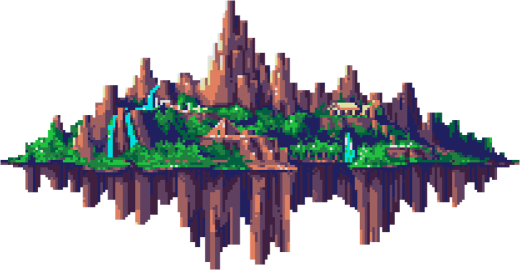
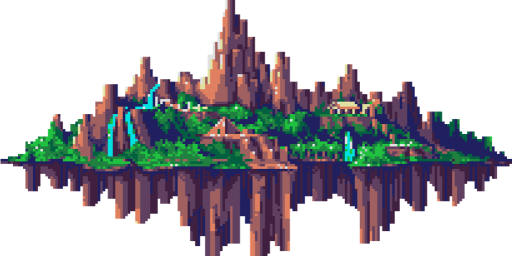
Optimize intro screen.

diff --git a/intro.js b/intro.js
@@ -14,12 +14,12 @@ var exiting = false;
 canvas.addEventListener("click", function() { exiting = true; }, false);
 
 function update() {
-	x -= 0.5;
+	x -= 0.2;
 	if (x < -waterBackground.width) {
 		x = 0;
 	}
 	
-	cx--;
+	cx -= 0.5;
 	if (cx < -cloudsBackground.width) {
 		cx = 0;
 	}
@@ -38,14 +38,15 @@ function drawImageCentered(img, xoff = 0, yoff = 0) {
 	ctx.drawImage(img, canvas.width / 2 - img.width / 2 + xoff, canvas.height / 2 - img.height / 2 + yoff);
 }
 
-var alpha = 1.0, timer = 100;
+// first alpha is for the black overlay, second alpha is for the sega logo, and the timer controls how long after the sega logo appears that the black overlay starts to fade
+var alpha = 1.0, alpha2 = 1.0, timer = 100;
 
 function draw() {
 	update();
-
+	
 	clear();
-	ctx.drawImage(cloudsBackground, cx, canvas.height - cloudsBackground.height - 20);
-	ctx.drawImage(cloudsBackground, cx + cloudsBackground.width, canvas.height - cloudsBackground.height - 20);
+	ctx.drawImage(cloudsBackground, cx, canvas.height - cloudsBackground.height - 30);
+	ctx.drawImage(cloudsBackground, cx + cloudsBackground.width, canvas.height - cloudsBackground.height - 30);
 	//ctx.drawImage(cloudsBackground, cx + cloudsBackground.width * 2, canvas.height - cloudsBackground.height - 20);
 
 	ctx.drawImage(waterBackground, x, canvas.height - waterBackground.height);
@@ -59,12 +60,19 @@ function draw() {
 		ctx.fillStyle = "rgba(0, 0, 0, " + alpha + ")";
 		ctx.fillRect( 0, 0, canvas.width, canvas.height );
 		ctx.closePath();
-		drawImageCentered(SEGALogo);
+		
 		if (timer > 0) { 
 			timer -= 1;
 		} else {
 			alpha -= 0.01;
 		}
+	} else {
+		alpha2 -= 0.02;
+	}
+	if (alpha2 > 0) {
+		ctx.globalAlpha = alpha2;
+		drawImageCentered(SEGALogo);
+		ctx.globalAlpha = 1.0;
 	}
 	
 	if (!exiting) {
